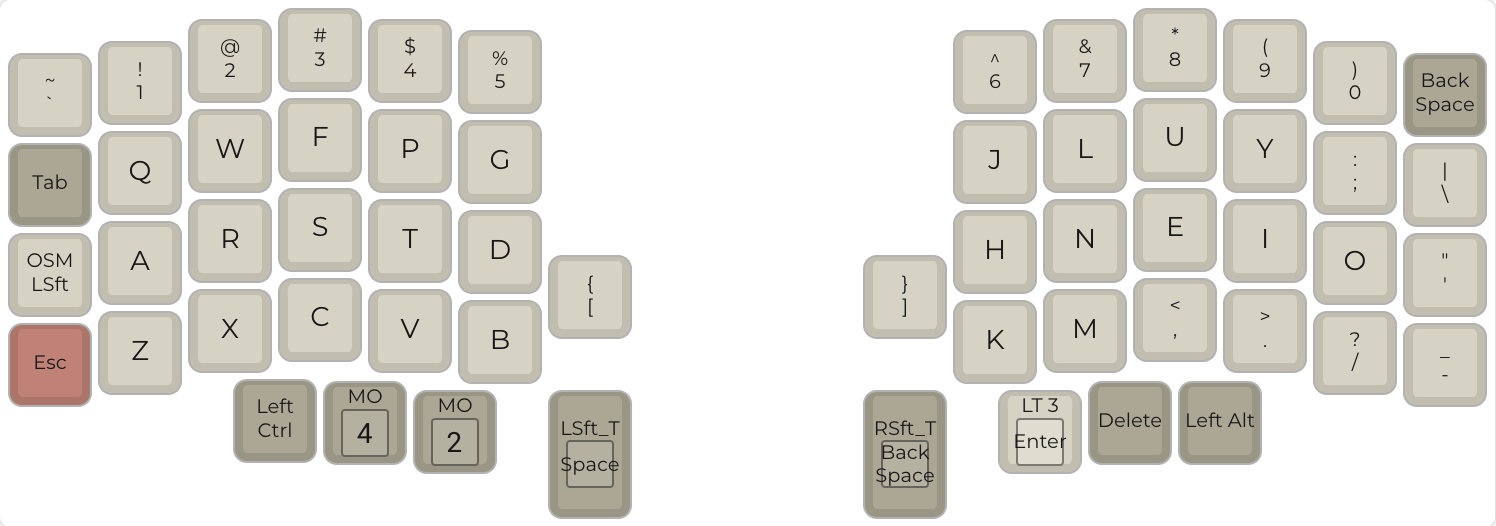
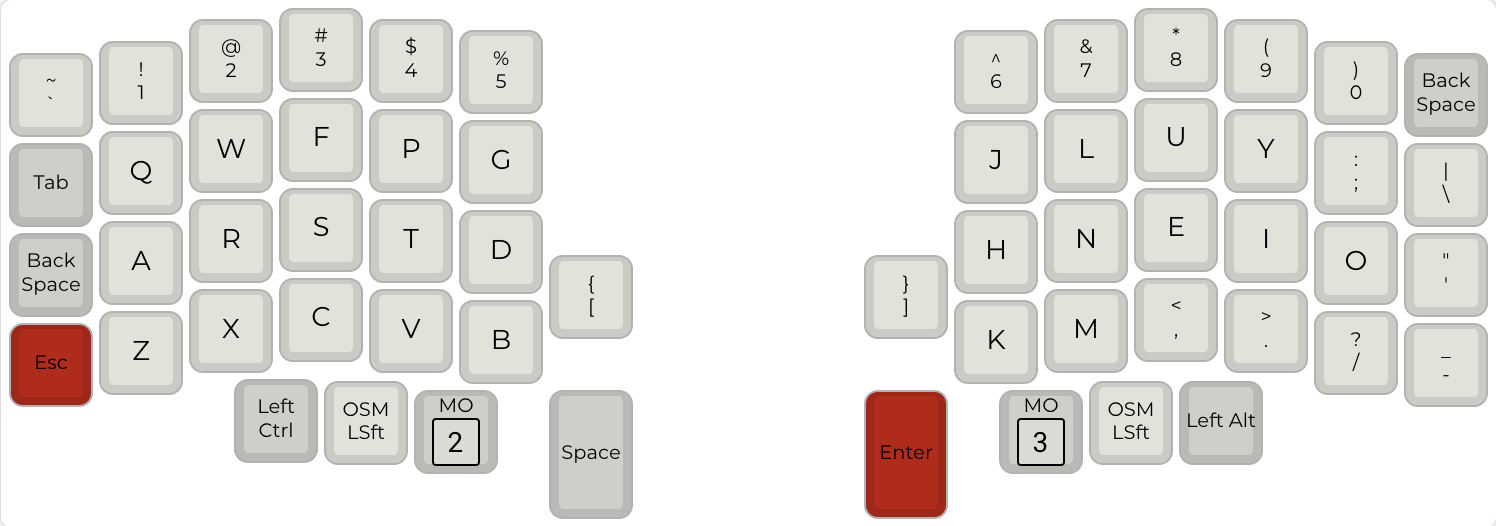
added shift bspc

diff --git a/keymap.c b/keymap.c
@@ -35,6 +35,16 @@ enum layer_number {
 };
 
 
+// key override - make shift backspace send a delete
+const key_override_t delete_key_override = ko_make_basic(MOD_MASK_SHIFT, KC_BSPC, KC_DEL);
+
+// This globally defines all key overrides to be used
+const key_override_t **key_overrides = (const key_override_t *[]){
+    &delete_key_override,
+    NULL // Null terminate the array of overrides!
+};
+
+
 const uint16_t PROGMEM keymaps[][MATRIX_ROWS][MATRIX_COLS] = {
 
 /* QWERTY

diff --git a/readme.md b/readme.md
@@ -1,6 +1,11 @@
 # dizave58
 
-The lily58 was my first alternative keyboard and is still a favorite. I knew right away
+The lily58 was my first alternative keyboard and is still a favorite. I mostly
+rock the corne these days but have a few lillies kicking around. So the dizave 
+layouts are my attemp to have a layout that works will on both of those keyboards,
+tailored to my ridiculous needs and preferences.
+
+I knew right away
 however that I was going to want to go a bit smaller. I looked for a layout that worked on
 both the lily and the corne and quickly found [miryoku](https://github.com/manna-harbour/miryoku). 
 
@@ -142,6 +147,4 @@ it in this keymap.
 # todo
 
 - close key that is cmd Q on mac and alt F4 on windows
-- layer with some legal keys: paragragh, section. this requires unicode detect
 - get underglow working 
-- save default layer to eeprom
